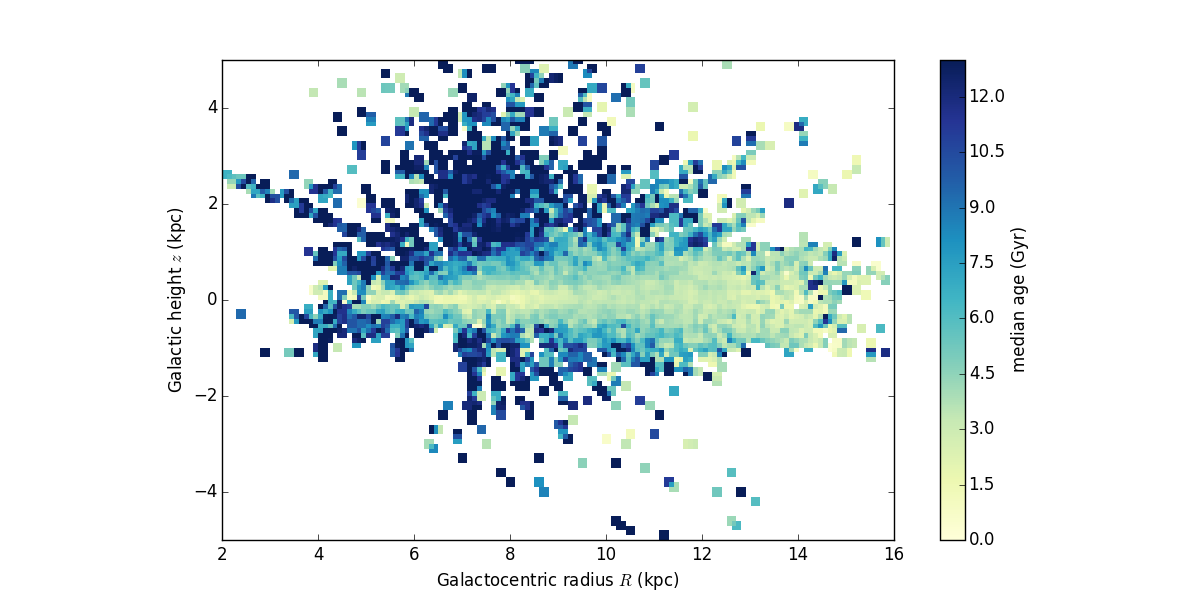
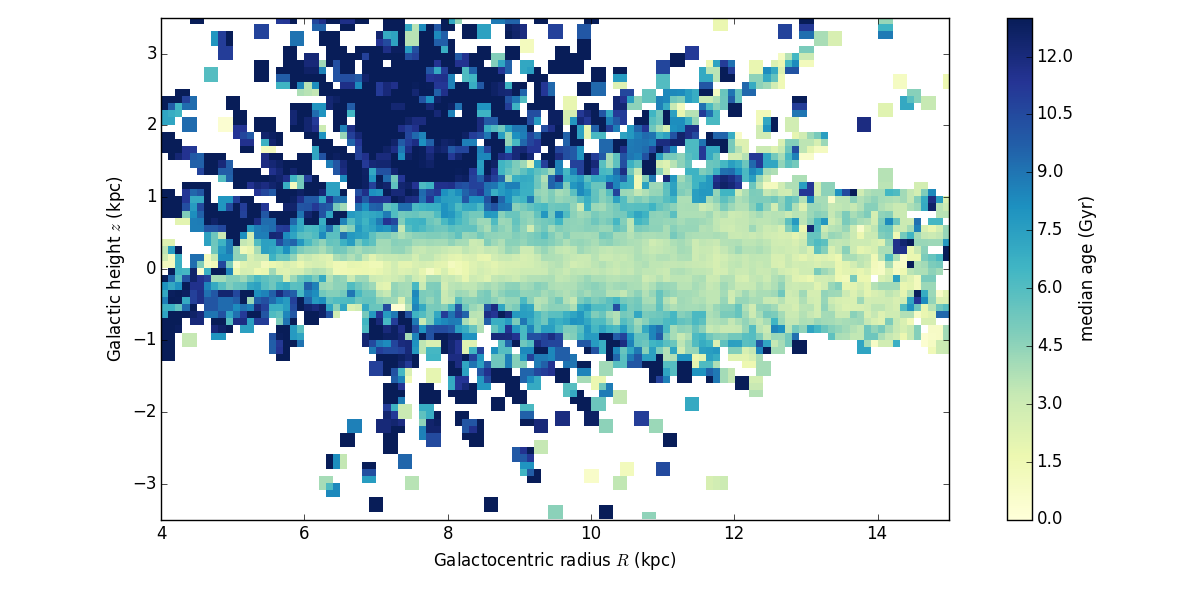
ms and figs

diff --git a/documents/mass_and_age/mass_and_age.tex b/documents/mass_and_age/mass_and_age.tex
@@ -97,7 +97,7 @@ obtained from a training set of stars with both
 \apogee\ infrared spectral data.
 We find that after training on mass, \thecannon\ can infer stellar
 masses---and therefore also stellar ages---for red-giant stars using
-infrared spectral data alone. \tc\ returns (log) masses to an accuracy of 0.08~dex and (log) ages to 0.25 dex for typical-quality \apogee\ spectra.  We produce a catalogue of mass and inferred age labels for all XXX,000 red-giant stars in \apogee\ DR12 and investigate the age distribution in the Milky Way's disk using the red clump sample of 20,000 stars, which span a galactic radius of 4 - 14 kpc and which have small distance errors ($\approx$ 5\, percent). We show from these data that the ages of stellar structures in the Milky Way demonstrate an evolution consistent with inside out formation and radial mixing for longer lived stars, even conditioned on abundances. We demonstrate that the capability to infer age from spectroscopy alone works mathematically using cross validation and we show that the mass information derives from elements associated with dredge-up processes predicted by stellar evolution. This capability opens up new opportunities for Milky Way and stellar astrophysics.
+infrared spectral data alone. \tc\ returns (log) masses to an accuracy of 0.08~dex and (log) ages to 0.25 dex for typical-quality \apogee\ spectra.  We produce a catalogue of mass and inferred age labels for all XXX,000 red-giant stars in \apogee\ DR12 and investigate the age distribution of the Milky Way's disk using the red clump sample of 20,000 stars, which span a galactic radius of 4 - 15 kpc. We show from these data that the ages of stellar structures in the Milky Way demonstrate an evolution consistent with inside out formation and radial mixing for longer lived stars, even conditioned on abundances. We demonstrate that the capability to infer age from spectroscopy alone works mathematically using cross validation and we show that the mass information derives from elements associated with dredge-up processes predicted by stellar evolution. This capability of determining masses and inferred ages from stellar spectra opens up new opportunities for Milky Way and stellar astrophysics.
 
 % Results
 %We demonstrate the validity of the stellar masses and ages that we determine with \tc\ with three
@@ -459,11 +459,15 @@ Thee input label for the inferred age is from the seismic scaling relations for 
 
 \section{Results: Stellar ages for the red clump sample of the Milky Way}
 
-\subsection{The generative model from \tc\ applied to the red clump stars}
+\subsection{\tc's generative model at the test step: the red clump stars}
 
-The \apogee\ sample comprises primarily red giant stars and a subset of  $\approx$ 20,000 red clump stars, identified by \citet{Bovy2014}. We take our model, trained using the reference \apokasc\ stars and determine the stellar parameters and masses for these red clump stars. which cover a radial extent of 6 -- 14 kpc and are located at heights $|z|$ $<$ 1.5 kpc. The red clump sample is a representative and unbiased sample of Milky Way disk stars located across a large radial extent and with an expected age distribution peaking at about 2 Gyr with a tail out to old ages (see Figure X of Bovy et al., 20XX). 
+The \apogee\ DR12 sample comprises primarily red giant stars plus a valuable subset of  $\approx$ 20,000 red clump stars, identified by \citet{Bovy2014}.  These stars have individual distance uncertainties of 5\,percent. These red clump stars cover a large radial extent of the disk, spanning distances of 4 -- 15 kpc and are located predominantly at heights $|z|$ $<$ 3.0 kpc from the plane. The red clump sample is a representative and unbiased sample of Milky Way disk stars and has an expected age distribution peaking at about 1.8 Gyr with a tail out to old ages \citep[see Figure 15 of][]{Bovy2014}. We take our model, trained using the reference \apokasc\ stars and determine the stellar parameters and masses for these red clump stars. We then infer ages by interpolating in label-space onto PARSEC isochrones.
+%, given the \feh\ and mass labels. 
 
-In Figure \ref{fig:spectra}, the spectra of one of the red clump stars, showing a typical red clump spectra, is shown in the black line, for each of the wavelength regions for which the highest amplitude of the coefficients is shown (Figures \ref{fig:logg} -- \ref{fig:mass}).  This star has parameters returned with \tc\ of \teff\ = 4843 K, \logg\ = 2.5 dex, \feh\ = --0.06 dex, \alphafe\ = 0.04 and mass = 1.0 and the interpolated age using the PARSEC isochrones and red clump evolutionary state is 10.6 Gyrs. The data is shown in black, the synthesised spectra from the parameters of \tc\ for this star are in blue and the best fit model from the \apogee\ stellar parameters pipeline \aspcap\ is shown in red. The generated model from \tc\ provides a better fit to the data than the best fit synthetic model from available to \aspcap, demonstrating the 5-labels well describe the flux behaviour of the red clump sample stars the training sample. Note that one of the regions where \aspcap\ performs most poorly is the brackett line which is highly \logg\ sensitive. This may indicate a problem with the model stellar atmospheres or it's associated oscillator strength for this feature. 
+In Figure \ref{fig:spectra}, the spectra of one of the red clump stars, which is representative a typical red clump spectra in the catalogue, is shown along with the generative model from \tc\ at it's stellar labels and the best fitting model from \aspcap. The data is shown in black, the synthesised model from \tc\ is shown in the blue dashed line and the best fit model from \aspcap\ is shown in the red dash-dotted line. The wavelength regions shown in this Figure are those for which the highest amplitude of the coefficients are located (Figures \ref{fig:logg} -- \ref{fig:mass}).  This red star which we use as an example has parameters returned by \tc\ of \teff\ = 4843 K, \logg\ = 2.5 dex, \feh\ = --0.06 dex, \alphafe\ = 0.04 and mass = 1.0 and the interpolated age using the PARSEC isochrones and red clump evolutionary state is 10.6 Gyrs. 
+
+
+The generated model from \tc\ provides a very good fit to the data and in fact is a better fit to the data than the best fit synthetic model from \aspcap. That we well reproduce the data with the model from \tc\ demonstrates the five-labels that we use to train as well as our polynomial model are sufficient to very well describe the behaviour of the flux of a typical red clump stars given the training set of reference stars from the \apokasc\ catalogue. Note in this Figure, that one of the regions where \aspcap\ performs most poorly is  at the brackett line, which is highly \logg\ sensitive (Figure \ref{fig:logg}. This may indicate a problem with the model stellar atmospheres or it's associated oscillator strength for this feature. 
 
 %run -i makeredclumpplot.py
 \begin{figure}[h!]
@@ -475,9 +479,9 @@ In Figure \ref{fig:spectra}, the spectra of one of the red clump stars, showing 
 
 
 
-\subsection{Age maps of the Milky way disk from 6--14 kpc with \apogee\ spectra}
+\subsection{The stellar age distribution of the Milky Way's disk across 4 --15 kpc}
 
-We determine the masses and infer the ages for the $\approx$ 20,000 red clump stars which have distances to approximately 5 percent. The catalogue of ages we provide in Table 1 for the red clump stars represents the largest homogeneous sample of stars in the Milky Way with associated age labels, and extends the age mapping from the previous local neighborhood only (GCS) to trace the inner to outer disk of the Milky Way, from 6 -- 14 kpc.  
+We determine the masses and infer the ages for the $\approx$ 20,000 red clump stars which have distances known to approximately 5 percent. The catalogue of ages we provide in Table 1 for the red clump stars represents the largest homogeneous sample of stars in the Milky Way with associated age labels, and extends the age mapping from the previous local neighborhood only (GCS) to trace the inner to outer disk of the Milky Way, from 4 -- 15 kpc.  
 
 We provide the full age catalog for \apogee's red giant stars, in addition to the red clump stars, adopting the red giant evolutionary state for the transformation from mass label to age label, and provide these data in Table 2, but use only the red clump stars to demonstrate the age trends of the Milky Way disk due to their small distance uncertainties. 
 
@@ -495,7 +499,7 @@ Figure \ref{fig:redclump} shows the mean age of the red clump stars in the \alph
 
 Examining now the metallicity distribution of the low-alpha sequence with radius, the bottom panels of Figure \ref{fig:redclump} compare the distribution of \feh\ for the XXX stars with ages $<$ 1 Gyrs, at left and the YYY stars with ages $>$ 5 Gyrs, at right. It is clear that the distribution $>$ doubles in width in both the radial direction and with \feh. The relationship between metallicity and radius is weaker for the older stars. Note that the apparent overdensity at about 8kpc across all \feh\ represents the Kepler field in the sample. That the \feh-radius correlation weakens with age likely reflects dynamical evolution processes in the Milky Way, such as radial migration, so that stars within this age range have been redistributed from their birth place, as a scattered weaker trend would imply. The youngest stars have been subject to much lesser dynamical timescales and more tightly traces the origin of their birthplace in the trend seen here between radius and \feh. The gradient measured for this population from a simple best fit straight line to this distribution at young ages $<$ 1 Gyr is XXX dex/kpc $\pm$ YY kpc. 
 
-\ldots MKN question: Should I fit a model to quantify the 2D age gradient to get median age as a function of (z,R) so we can write down an equation for the age of the red clump as a function of thees params? What form should this take - polynomial form ? 
+%\ldots MKN question: Should I fit a model to quantify the 2D age gradient to get median age as a function of (z,R) so we can write down an equation for the age of the red clump as a function of thees params? What form should this take - polynomial form ? 
 
 %in the The dashed line in the right hand panel of this Figure, where the density of the red clump stars is plotted, shows the selection that we have made for analysis of the low-alpha sequence of these stars only. This figure also shows a small box in \feh-\alphafe\ space that we have selected to examine the age trends of the Galaxy over, also demonstrative of the additional information contained within the mass and inferred age label for the true age distribution of stars in the Milky Way (and so in addition to the chemical enrichment marker of \alphafe). 
 
@@ -509,34 +513,22 @@ For the red clump sequence we now show the maps of the median age of the stars a
 
 
 % made in /Users/ness/new_laptop/Apogee_ages/dwh/makeplots_mkn.py 
-\begin{figure}[p!]
+\begin{figure}[h!]
 \centering
- % \includegraphics[scale=0.31]{./plots/validation.png}
-    \includegraphics[scale=0.45]{./plots/median_age_abs.png}
-    \caption{The median age of the 20,000 red clump stars  }
+    \includegraphics[scale=0.45]{./plots/median_3panel.png}
+    \caption{Maps of the median age of the  \apogee\ red clump stars showing all $\approx$ 20,000 stars at left, the low alpha-sequence only at centre and a small abundance bin in the low-alpha sequence at right.  }
 \label{fig:redclump_age}
-\vspace{360pt}
 \end{figure}
 
 % made in /Users/ness/new_laptop/Apogee_ages/dwh/makeplots_mkn.py 
-\begin{figure}[p!]
+\begin{figure}[h!]
 \centering
- % \includegraphics[scale=0.31]{./plots/validation.png}
-    \includegraphics[scale=0.45]{./plots/median_age_low_alpha_abs.png}
-    \caption{The median age of the low alpha sequence of the red clump stars ( draw where this in in feh alphafeh plane). Include number of stars. }
-\label{fig:redclump_low}
-\vspace{-30pt}
+    \includegraphics[scale=0.45]{./plots/feh_3panel.png}
+    \caption{Maps of the median \alphafe of the  \apogee\ red clump stars showing the same samples as Figure \ref{fig:redclump_age}. }
+\label{fig:redclump_alpha}
 \end{figure}
 
 
-% made in /Users/ness/new_laptop/Apogee_ages/dwh/makeplots_mkn.py 
-\begin{figure}[p!]
-\centering
- % \includegraphics[scale=0.31]{./plots/validation.png}
-    \includegraphics[scale=0.45]{./plots/median_age_mono_abs.png}
-    \caption{The median age of low alpha sequence monoabundance  bin with a cut on  \feh\ of 0 to -0.2. }
-\label{fig:redclump_mono}
-\end{figure}
 
 TABLE 1: Masses and ages of red clump stars - note at edges edge effects. 
 
@@ -588,16 +580,16 @@ Our code and documentation which includes instructions for downloading the train
 
 \section{Conclusion} 
 
-\ldots MKN write some conclusions after a break from writing. 
+\ldots MKN write some conclusions after a break from writing.... 
 
-This data-driven generative modeling approach is not explicitly informed by stellar physics and instead in itself has the potential to inform stellar physics.
+\ldots This data-driven generative modeling approach is not explicitly informed by stellar physics and instead in itself has the potential to inform stellar physics.
 % and with a general methodology that can be applied to any spectral region so if mass information is present, it can be inferred.
 % it is not constrained by theoretical assumptions
 %the least controversial to
 
-The derivation of stellar masses directly from stellar spectra using \tc\ is relevant for other wavelength regions and surveys, for example GALAH, (the spectral region of which contains two strong H-$\alpha$ features, already known to be good mass indicators). 
+\ldots The derivation of stellar masses directly from stellar spectra using \tc\ is relevant for other wavelength regions and surveys, for example GALAH, (the spectral region of which contains two strong H-$\alpha$ features, already known to be good mass indicators). 
 
-\acknowledgments
+\section*{Acknowledgments}
 It is a pleasure to thank Maria Bergemann (MPIA)
   John Bochanski (Rider),
   Dan Foreman-Mackey (UW), and

diff --git a/code/makeplots_mkn.py b/code/makeplots_mkn.py
@@ -28,6 +28,8 @@ def make_grid(xs, xmin, xmax, dx, ys, ymin, ymax, dy, data):
     median_age_high_alpha = np.zeros_like(xgrid) + np.NaN
     median_feh = np.zeros_like(xgrid) + np.NaN
     median_alpha = np.zeros_like(xgrid) + np.NaN
+    median_alpha_low_alpha = np.zeros_like(xgrid) + np.NaN
+    median_alpha_mono = np.zeros_like(xgrid) + np.NaN
     low_alpha_fracs = np.zeros_like(xgrid) + np.NaN
     std_age = np.zeros_like(xgrid) + np.NaN
     for xxi in range(nx):
@@ -47,6 +49,8 @@ def make_grid(xs, xmin, xmax, dx, ys, ymin, ymax, dy, data):
             median_age_low_alpha[xxi, yyi] = np.median(data[inside, 9][median_age_low_alpha_pick])
             median_age_high_alpha[xxi, yyi] = np.median(data[inside, 9][median_age_high_alpha_pick])
             median_age_mono[xxi, yyi] = np.median(data[inside, 9][median_age_mono_pick])
+            median_alpha_mono[xxi, yyi] = np.median(data[inside, 8][median_age_mono_pick])
+            median_alpha_low_alpha[xxi, yyi] = np.median(data[inside, 8][median_age_low_alpha_pick])
             std_age[xxi, yyi] = np.std(data[inside, 9]) 
             median_feh[xxi, yyi] = np.median(data[inside, 7]) 
             median_alpha[xxi, yyi] = np.median(data[inside, 8]) 
@@ -54,7 +58,7 @@ def make_grid(xs, xmin, xmax, dx, ys, ymin, ymax, dy, data):
                 young_fracs[xxi, yyi] = np.sum(data[inside, 9] < young) / N
                 low_alpha_fracs[xxi, yyi] = np.sum(data[inside, 8] <
                     0.05 - 0.2 * data[inside, 7]) / N # magic number insanity
-    return xgrid, ygrid, Nstars, young_fracs, low_alpha_fracs, median_age,std_age, median_feh, median_alpha, median_age_low_alpha, median_age_high_alpha, median_age_mono
+    return xgrid, ygrid, Nstars, young_fracs, low_alpha_fracs, median_age,std_age, median_feh, median_alpha, median_age_low_alpha, median_age_high_alpha, median_age_mono, median_alpha_low_alpha, median_alpha_mono
 
 if __name__ == "__main__":
     print "Hello World!"
@@ -73,23 +77,24 @@ if __name__ == "__main__":
     plt.clf()
     plt.hist(data[:, -1], bins=32, histtype="step")
     plt.xlabel("age (Gyr)")
+    plt.tight_layout()
     hogg_savefig("age_hist.png")
 
     print "Making (R,z) grid..."
     # start magic number time
     Rmin, Rmax = 2., 16. # kpc
     Rmin, Rmax = 4., 15. # kpc
-    zmin, zmax = -5.0, 5.0 # kpc
     zmin, zmax = -2.0, 2.0 # kpc
+    zmin, zmax = -3.5, 3.5 # kpc
     dR = 0.1 # kpc
     (Rgrid, zgrid, Nstars, young_fracs,
-     low_alpha_fracs, median_age,std_age, median_feh, median_alpha, median_age_low_alpha, median_age_high_alpha, median_age_mono) = make_grid(data[:, 2], Rmin, Rmax, dR,
+     low_alpha_fracs, median_age,std_age, median_feh, median_alpha, median_age_low_alpha, median_age_high_alpha, median_age_mono, median_alpha_low_alpha, median_alpha_mono) = make_grid(data[:, 2], Rmin, Rmax, dR,
                                   (data[:, 4]), zmin, zmax, dR, data)
 
     plt.figure(figsize=(12,6))
     plt.clf()
     imshow_kwargs = {"interpolation": "nearest",
-                     "aspect": 1.0,
+                     "aspect": "equal",
                      "origin": "lower",
                      "extent": (Rmin, Rmax, zmin, zmax)}
     plt.imshow(young_fracs.T, cmap=plt.cm.YlGnBu, vmin=0., vmax=1.,
@@ -98,6 +103,7 @@ if __name__ == "__main__":
     plt.ylabel("Galactic height $z$ (kpc)")
     foo = plt.colorbar()
     foo.set_label("fraction of stars with low age")
+    plt.tight_layout()
     hogg_savefig("young_fracs_abs.png")
 
     plt.clf()
@@ -107,6 +113,7 @@ if __name__ == "__main__":
     plt.ylabel("Galactic height $z$ (kpc)")
     foo = plt.colorbar()
     foo.set_label("fraction of stars with low chemical age")
+    plt.tight_layout()
     hogg_savefig("low_alpha_fracs_abs.png")
 
     plt.clf()
@@ -117,65 +124,120 @@ if __name__ == "__main__":
     foo = plt.colorbar()
     foo.set_label(r"number of stars in a $%.1f\times%.1f$ kpc box" %
                   (2. * dR, 2 * dR))
+    plt.tight_layout()
     hogg_savefig("nstars_abs.png")
     plt.clf()
-    plt.imshow(median_age.T, cmap=plt.cm.YlGnBu, vmin=0.0, vmax = 13., 
+    
+    #plt.figure(figsize=(12,18))
+    rcParams['figure.figsize'] = 16.0, 6.0
+    fig, (ax1, ax2, ax3) = plt.subplots(ncols=3, sharey = False,sharex = False)
+    s1 = ax1.imshow(median_age.T, cmap=plt.cm.YlGnBu, vmin=0.0, vmax = 13., 
                **imshow_kwargs)
-    plt.xlabel("Galactocentric radius $R$ (kpc)")
-    plt.ylabel("Galactic height $z$ (kpc)")
-    foo = plt.colorbar()
-    foo.set_label("median age (Gyr)") 
-    hogg_savefig("median_age_abs.png")
+    ax1.set_xlabel("Galactocentric radius $R$ (kpc)")
+    ax1.set_ylabel("Galactic height $z$ (kpc)")
+    foo = colorbar(s1,ax=ax1, orientation = 'horizontal') 
+    foo.set_label(" median age (Gyr)") 
+    s2 = ax2.imshow(median_age_low_alpha.T, cmap=plt.cm.YlGnBu, vmin=0, vmax = 13, 
+               **imshow_kwargs)
+    ax2.set_xlabel("Galactocentric radius $R$ (kpc)")
+    ax2.set_yticks([])
+    foo = colorbar(s2,ax=ax2, orientation = 'horizontal') 
+    foo.set_label(" median age (Gyr)") 
+    s3 = ax3.imshow(median_age_mono.T, cmap=plt.cm.YlGnBu, vmin=0, vmax = 13, 
+               **imshow_kwargs)
+    ax3.set_xlabel("Galactocentric radius $R$ (kpc)")
+    ax3.set_yticks([])
+    foo = colorbar(s3,ax=ax3, orientation = 'horizontal') 
+    foo.set_label(" median age (Gyr)") 
+    fig.tight_layout()
+    fig.subplots_adjust(hspace=0.0)
+    fig.subplots_adjust(wspace=0.0)
+    hogg_savefig("median_3panel.png")
     plt.clf()
-    plt.imshow(std_age.T, cmap=plt.cm.YlGnBu, vmin=0, vmax = 6., 
+    #
+    rcParams['figure.figsize'] = 16.0, 6.0
+    fig, (ax4, ax5, ax6) = plt.subplots(ncols=3, sharey = False,sharex = False)
+    s4 = ax4.imshow(median_alpha.T, cmap=plt.cm.YlGnBu, vmin=-0.025, vmax = 0.25, 
                **imshow_kwargs)
-    plt.xlabel("Galactocentric radius $R$ (kpc)")
-    plt.ylabel("Galactic height $z$ (kpc)")
-    foo = plt.colorbar()
-    foo.set_label(" age dispersion (Gyr)") 
-    hogg_savefig("std_age_abs.png")
-    plt.clf()
-    plt.imshow(median_feh.T, cmap=plt.cm.YlGnBu, vmin=-0.5, vmax = 0.3, 
-               **imshow_kwargs)
-    plt.xlabel("Galactocentric radius $R$ (kpc)")
-    plt.ylabel("Galactic height $z$ (kpc)")
-    foo = plt.colorbar()
-    foo.set_label(" median [Fe/H] (dex)") 
-    hogg_savefig("median_feh_abs.png")
-    plt.clf()
-    plt.imshow(median_alpha.T, cmap=plt.cm.YlGnBu, vmin=-0.020, vmax = 0.20, 
-               **imshow_kwargs)
-    plt.xlabel("Galactocentric radius $R$ (kpc)")
-    plt.ylabel("Galactic height $z$ (kpc)")
-    foo = plt.colorbar()
+    ax1.set_xlabel("Galactocentric radius $R$ (kpc)")
+    ax1.set_ylabel("Galactic height $z$ (kpc)")
+    foo = colorbar(s4,ax=ax4, orientation = 'horizontal') 
     foo.set_label(" median [alpha/Fe] (dex)") 
-    hogg_savefig("median_alpha_abs.png")
-    plt.clf()
-    plt.imshow(median_age_low_alpha.T, cmap=plt.cm.YlGnBu, vmin=0, vmax = 12, 
+    #s5 = ax5.imshow(std_age.T, cmap=plt.cm.YlGnBu, vmin=0, vmax = 6.0, 
+    #           **imshow_kwargs)
+    s5 = ax5.imshow(median_alpha_low_alpha.T, cmap=plt.cm.YlGnBu, vmin=-0.025, vmax = 0.25, 
                **imshow_kwargs)
-    plt.xlabel("Galactocentric radius $R$ (kpc)")
-    plt.ylabel("Galactic height $z$ (kpc)")
-    foo = plt.colorbar()
-    foo.set_label(" median age (Gyr)") 
-    hogg_savefig("median_age_low_alpha_abs.png")
-    plt.clf()
-    plt.imshow(median_age_high_alpha.T, cmap=plt.cm.YlGnBu, vmin=0, vmax = 12, 
+    ax5.set_xlabel("Galactocentric radius $R$ (kpc)")
+    ax5.set_yticks([])
+    foo = colorbar(s5,ax=ax5, orientation = 'horizontal') 
+    #foo.set_label("$\sigma$ age (Gyr)") 
+    foo.set_label(" median [alpha/Fe] (dex)") 
+    #s6 = ax6.imshow(median_feh.T, cmap=plt.cm.YlGnBu, vmin=-0.55, vmax = 0.3, 
+    #           **imshow_kwargs)
+    s6 = ax6.imshow(median_alpha_mono.T, cmap=plt.cm.YlGnBu, vmin=-0.025, vmax = 0.25, 
                **imshow_kwargs)
-    plt.xlabel("Galactocentric radius $R$ (kpc)")
-    plt.ylabel("Galactic height $z$ (kpc)")
-    foo = plt.colorbar()
-    foo.set_label(" median age (Gyr)") 
-    hogg_savefig("median_age_high_alpha_abs.png")
+    ax6.set_xlabel("Galactocentric radius $R$ (kpc)")
+    ax6.set_yticks([])
+    foo = colorbar(s6,ax=ax6, orientation = 'horizontal') 
+    #foo.set_label(" median [Fe/H] (Gyr)") 
+    foo.set_label(" median [alpha/Fe] (dex)") 
+    fig.tight_layout()
+    fig.subplots_adjust(hspace=0.0)
+    fig.subplots_adjust(wspace=0.0)
+    hogg_savefig("feh_3panel.png")
     plt.clf()
-    plt.clf()
-    plt.imshow(median_age_mono.T, cmap=plt.cm.YlGnBu, vmin=0, vmax = 12, 
-               **imshow_kwargs)
-    plt.xlabel("Galactocentric radius $R$ (kpc)")
-    plt.ylabel("Galactic height $z$ (kpc)")
-    foo = plt.colorbar()
-    foo.set_label(" median age (Gyr)") 
-    hogg_savefig("median_age_mono_abs.png")
-    plt.clf()
+    #plt.tight_layout()
+    #hogg_savefig("median_age_abs.png")
+    #plt.clf()
+    #plt.imshow(std_age.T, cmap=plt.cm.YlGnBu, vmin=0, vmax = 6., 
+    #           **imshow_kwargs)
+    #plt.xlabel("Galactocentric radius $R$ (kpc)")
+    #plt.ylabel("Galactic height $z$ (kpc)")
+    #foo = plt.colorbar()
+    #foo.set_label(" age dispersion (Gyr)") 
+    #plt.tight_layout()
+    #hogg_savefig("std_age_abs.png")
+    #plt.clf()
+    #plt.imshow(median_feh.T, cmap=plt.cm.YlGnBu, vmin=-0.5, vmax = 0.3, 
+    #           **imshow_kwargs)
+    #plt.xlabel("Galactocentric radius $R$ (kpc)")
+    #plt.ylabel("Galactic height $z$ (kpc)")
+    #foo = plt.colorbar()
+    #foo.set_label(" median [Fe/H] (dex)") 
+    #plt.tight_layout()
+    #hogg_savefig("median_feh_abs.png")
+    #plt.clf()
+    #plt.imshow(median_alpha.T, cmap=plt.cm.YlGnBu, vmin=-0.020, vmax = 0.20, 
+    #           **imshow_kwargs)
+    #plt.xlabel("Galactocentric radius $R$ (kpc)")
+    #plt.ylabel("Galactic height $z$ (kpc)")
+    #foo = plt.colorbar()
+    #foo.set_label(" median [alpha/Fe] (dex)") 
+    #plt.tight_layout()
+    #hogg_savefig("median_alpha_abs.png")
+    #plt.clf()
+    #ax2.set_ylabel("Galactic height $z$ (kpc)")
+    #ax2 = plt.colorbar()
+    #ax2.set_label(" median age (Gyr)") 
+    #plt.tight_layout()
+    #hogg_savefig("median_age_low_alpha_abs.png")
+    #plt.clf()
+    #plt.imshow(median_age_high_alpha.T, cmap=plt.cm.YlGnBu, vmin=0, vmax = 12, 
+    #           **imshow_kwargs)
+    #plt.xlabel("Galactocentric radius $R$ (kpc)")
+    #plt.ylabel("Galactic height $z$ (kpc)")
+    #foo = plt.colorbar()
+    #foo.set_label(" median age (Gyr)") 
+    #plt.tight_layout()
+    #hogg_savefig("median_age_high_alpha_abs.png")
+    #plt.clf()
+    #plt.clf()
+    #ax3.set_ylabel("Galactic height $z$ (kpc)")
+    #cbar_ax = fig.add_axes([0.94, 0.13, 0.01, 0.50])
+    #cbar_ax = fig.add_axes([0.94, 0.13, 0.01, 0.50])
+    #foo = fig.colorbar(s3, cax=cbar_ax,orientation = 'horizontal')
+    #foo = plt.colorbar()
+    #foo.set_label(" median age (Gyr)") 
 
 
 
@@ -186,10 +248,10 @@ if __name__ == "__main__":
     xs = data[inplane, 2] * np.cos(data[inplane, 3])
     ys = data[inplane, 2] * np.sin(data[inplane, 3])
     xmin, xmax = 5., 14.
-    ymin, ymax = -4.5, 4.5
+    ymin, ymax = -4.0, 4.0
     dR = 0.1 # kpc
     (xgrid, ygrid, Nstars, young_fracs,
-     low_alpha_fracs,median_age, std_age, median_feh, median_alpha, median_age_low_alpha, median_age_high_alpha, median_age_mono) = make_grid(xs, xmin, xmax, dR,
+     low_alpha_fracs,median_age, std_age, median_feh, median_alpha, median_age_low_alpha, median_age_high_alpha, median_age_mono, median_alpha_low_alpha, median_alpha_mono) = make_grid(xs, xmin, xmax, dR,
                                   ys, ymin, ymax, dR, data[inplane])
     plt.figure(figsize=(5,4))
     plt.clf()
@@ -203,6 +265,7 @@ if __name__ == "__main__":
     plt.ylabel(r"Galactocentric $R\,\sin\phi$ (kpc)")
     foo = plt.colorbar()
     foo.set_label("fraction of stars with low age")
+    plt.tight_layout()
     hogg_savefig("fo_young_fracs_abs.png")
 
     plt.clf()
@@ -212,6 +275,7 @@ if __name__ == "__main__":
     plt.ylabel(r"Galactocentric $R\,\sin\phi$ (kpc)")
     foo = plt.colorbar()
     foo.set_label("fraction of stars with low chemical age")
+    plt.tight_layout()
     hogg_savefig("fo_low_alpha_fracs_abs.png")
 
     plt.clf()
@@ -222,6 +286,7 @@ if __name__ == "__main__":
     foo = plt.colorbar()
     foo.set_label(r"number of stars in a $%.1f\times%.1f$ kpc box" %
                   (2. * dR, 2 * dR))
+    plt.tight_layout()
     hogg_savefig("fo_nstars_abs.png")
     plt.clf()
     imshow_kwargs = {"interpolation": "nearest",
@@ -234,6 +299,7 @@ if __name__ == "__main__":
     plt.ylabel(r"Galactocentric $R\,\sin\phi$ (kpc)")
     foo = plt.colorbar()
     foo.set_label("")
+    plt.tight_layout()
     hogg_savefig("fo_median_age_abs.png")
 
     
